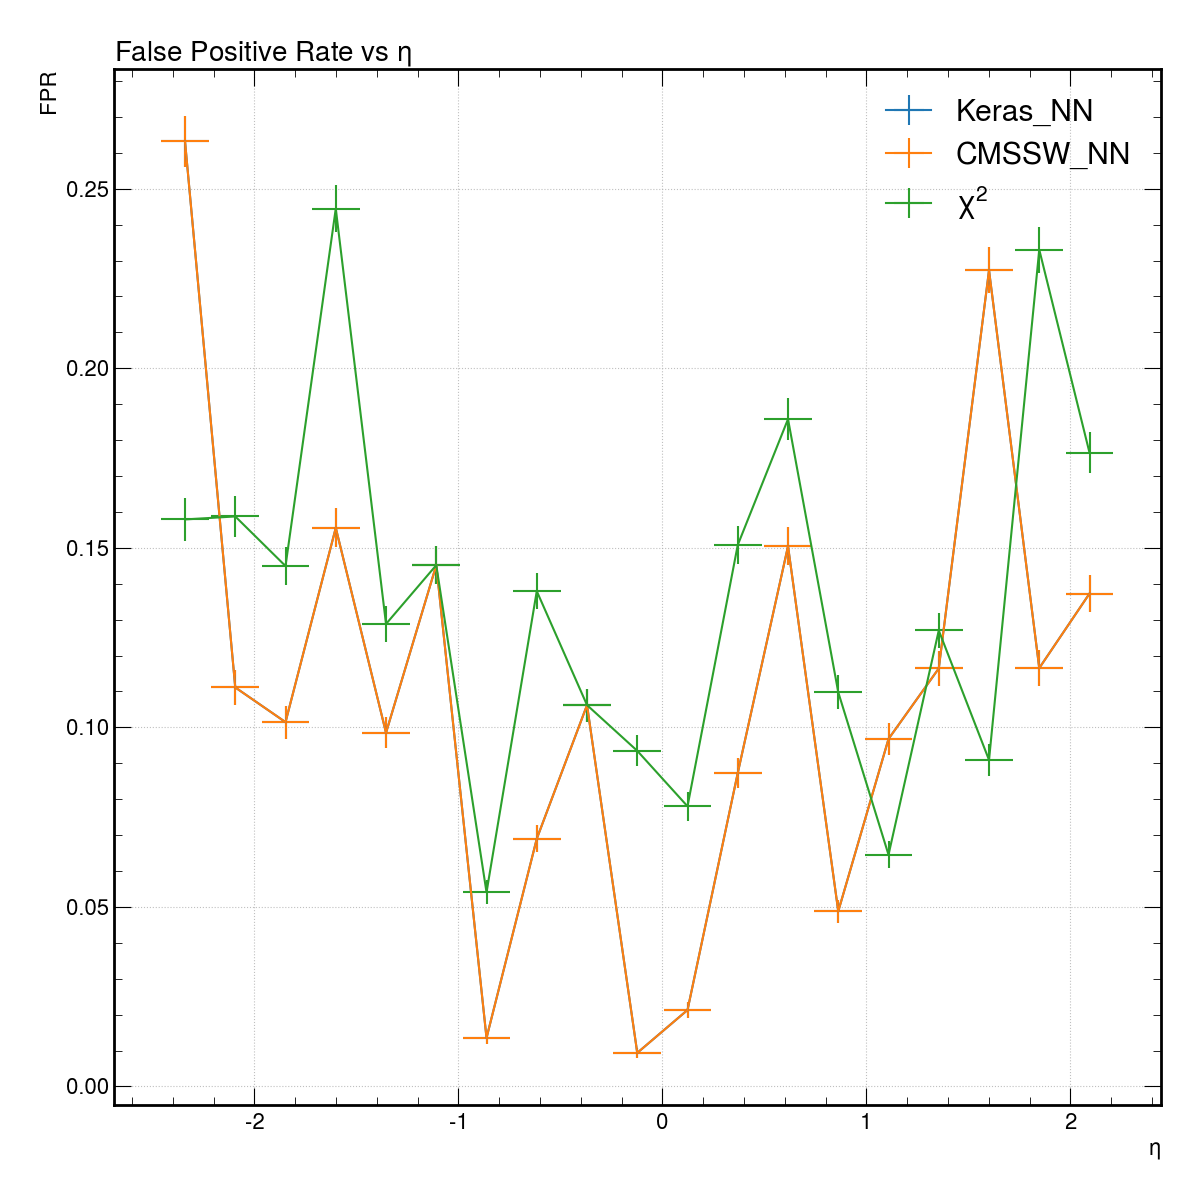
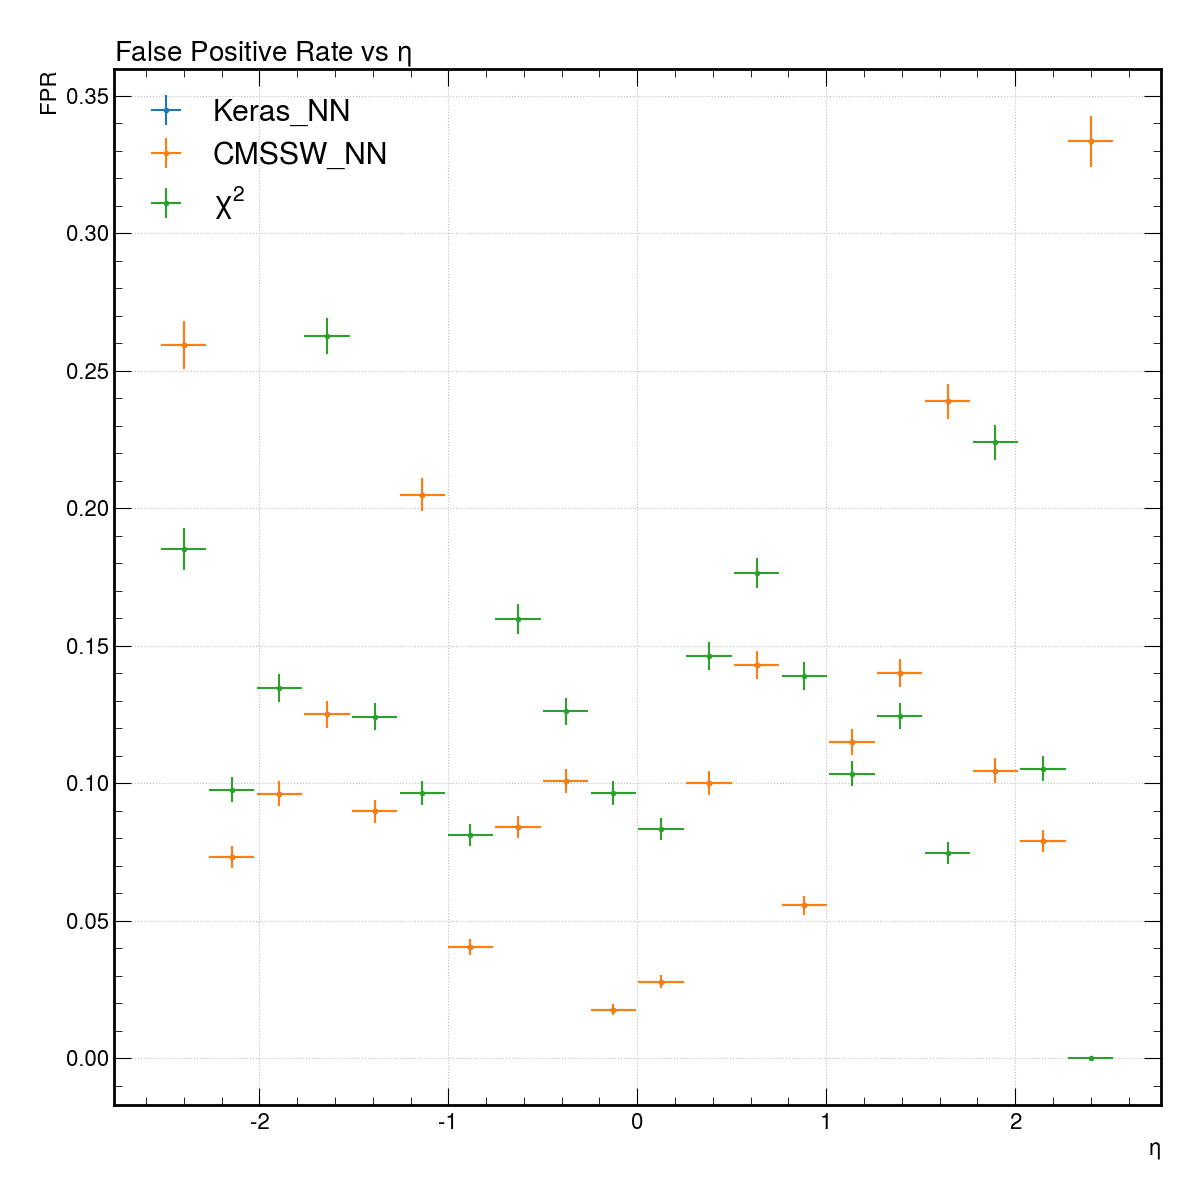
Updated eta graphs

diff --git a/Eval/eval_funcs.py b/Eval/eval_funcs.py
@@ -138,11 +138,11 @@ def bins(trackdf,model_names,parameter,threshold=0.5):
 
     if parameter=="eta":
         plot_type_name = "$\eta$"
-        bin_range = np.linspace(-2.34,2.34,20)
+        bin_range = np.linspace(-2.4,2.4,20)
 
     if parameter=="pt":
         plot_type_name = "$p_T$"
-        bin_range = np.linspace(0,200,10)
+        bin_range = np.linspace(20,100,11)
 
     if parameter=="phi":
     
@@ -155,12 +155,12 @@ def bins(trackdf,model_names,parameter,threshold=0.5):
 
     temp_df = pd.DataFrame()
     
-    tprs = np.zeros([len(model_names),len(bin_range)-1,2])
-    fprs = np.zeros([len(model_names),len(bin_range)-1,2])
-    tnrs = np.zeros([len(model_names),len(bin_range)-1,2])
-    fnrs = np.zeros([len(model_names),len(bin_range)-1,2])
+    tprs = np.zeros([len(model_names),len(bin_range),2])
+    fprs = np.zeros([len(model_names),len(bin_range),2])
+    tnrs = np.zeros([len(model_names),len(bin_range),2])
+    fnrs = np.zeros([len(model_names),len(bin_range),2])
 
-    for i in range(len(bin_range)-1):
+    for i in range(len(bin_range)):
         temp_df = trackdf[(trackdf["trk_"+parameter] > bin_range[i]-bin_width/2) & (trackdf["trk_"+parameter] <= bin_range[i]+bin_width/2)]
 
         temp_tprs,temp_fprs,temp_tnrs,temp_fnrs,totalstrue,totalsfalse = newfull_rates(temp_df,model_names,threshold)
@@ -177,7 +177,7 @@ def bins(trackdf,model_names,parameter,threshold=0.5):
         fnrs[:,i,0] = temp_fnrs
         fnrs[:,i,1] = np.sqrt((temp_fnrs*(1-temp_fnrs))/totalsfalse)
     
-    bin_range =  bin_range[0:-1]
+    
         
 
     fig, ax = plt.subplots(figsize=(12,12)) 
@@ -186,8 +186,8 @@ def bins(trackdf,model_names,parameter,threshold=0.5):
     ax.set_title("True Positive Rate vs " +plot_type_name ,loc='left',fontsize=20)
 
     for i in range(len(model_names)-1):
-        ax.errorbar(bin_range,tprs[i,:,0],yerr=tprs[i,:,1],xerr=bin_width, label=model_names[i])
-    ax.errorbar(bin_range,tprs[2,:,0],yerr=tprs[2,:,1],xerr=bin_width, label="$\chi^2$ ")
+        ax.errorbar(bin_range,tprs[i,:,0],yerr=tprs[i,:,1],xerr=bin_width,fmt='.', label=model_names[i])
+    ax.errorbar(bin_range,tprs[2,:,0],yerr=tprs[2,:,1],xerr=bin_width,fmt='.', label="$\chi^2$ ")
 
     ax.set_xlabel(plot_type_name,ha="right",x=1,fontsize=16)
     ax.set_ylabel("TPR",ha="right",y=1,fontsize=16)
@@ -206,8 +206,8 @@ def bins(trackdf,model_names,parameter,threshold=0.5):
     ax.set_title("False Positive Rate vs " +plot_type_name ,loc='left',fontsize=20)
 
     for i in range(len(model_names)-1):
-        ax.errorbar(bin_range,fprs[i,:,0],yerr=fprs[i,:,1],xerr=bin_width, label=model_names[i])
-    ax.errorbar(bin_range,fprs[2,:,0],yerr=fprs[2,:,1],xerr=bin_width, label="$\chi^2$ ")
+        ax.errorbar(bin_range,fprs[i,:,0],yerr=fprs[i,:,1],xerr=bin_width, fmt='.',label=model_names[i])
+    ax.errorbar(bin_range,fprs[2,:,0],yerr=fprs[2,:,1],xerr=bin_width, fmt='.',label="$\chi^2$ ")
 
     ax.set_xlabel(plot_type_name,ha="right",x=1,fontsize=16)
     ax.set_ylabel("FPR",ha="right",y=1,fontsize=16)
@@ -227,8 +227,8 @@ def bins(trackdf,model_names,parameter,threshold=0.5):
     ax.set_title("True Negative Rate vs "+plot_type_name ,loc='left',fontsize=20)
 
     for i in range(len(model_names)-1):
-        ax.errorbar(bin_range,tnrs[i,:,0],yerr=tnrs[i,:,1],xerr=bin_width, label=model_names[i])
-    ax.errorbar(bin_range,tnrs[2,:,0],yerr=tnrs[2,:,1],xerr=bin_width, label="$\chi^2$ ")
+        ax.errorbar(bin_range,tnrs[i,:,0],yerr=tnrs[i,:,1],xerr=bin_width,fmt='.', label=model_names[i])
+    ax.errorbar(bin_range,tnrs[2,:,0],yerr=tnrs[2,:,1],xerr=bin_width, fmt='.',label="$\chi^2$ ")
 
     ax.set_xlabel(plot_type_name,ha="right",x=1,fontsize=16)
     ax.set_ylabel("TNR",ha="right",y=1,fontsize=16)
@@ -248,8 +248,8 @@ def bins(trackdf,model_names,parameter,threshold=0.5):
     ax.set_title("False Negative Rate vs "+plot_type_name ,loc='left',fontsize=20)
 
     for i in range(len(model_names)-1):
-        ax.errorbar(bin_range,fnrs[i,:,0],yerr=fnrs[i,:,1],xerr=bin_width, label=model_names[i])
-    ax.errorbar(bin_range,fnrs[2,:,0],yerr=fnrs[2,:,1],xerr=bin_width, label="$\chi^2$ ")
+        ax.errorbar(bin_range,fnrs[i,:,0],yerr=fnrs[i,:,1],xerr=bin_width, fmt='.',label=model_names[i])
+    ax.errorbar(bin_range,fnrs[2,:,0],yerr=fnrs[2,:,1],xerr=bin_width,fmt='.', label="$\chi^2$ ")
 
     ax.set_xlabel(plot_type_name,ha="right",x=1,fontsize=16)
     ax.set_ylabel("FNR",ha="right",y=1,fontsize=16)

diff --git a/Eval/eval.py b/Eval/eval.py
@@ -91,7 +91,7 @@ model_names = ("Keras_NN","CMSSW_NN","Chi2 Cut")
 eval_funcs.roc_auc(trackdf,model_names)
 
 eval_funcs.bins(trackdf,model_names,"eta")
-#eval_funcs.bins(trackdf,model_names,"pt")
+eval_funcs.bins(trackdf,model_names,"pt")
 #eval_funcs.bins(trackdf,model_names,"phi")
 
 #eval_funcs.own_roc(trackdf,model_names)
